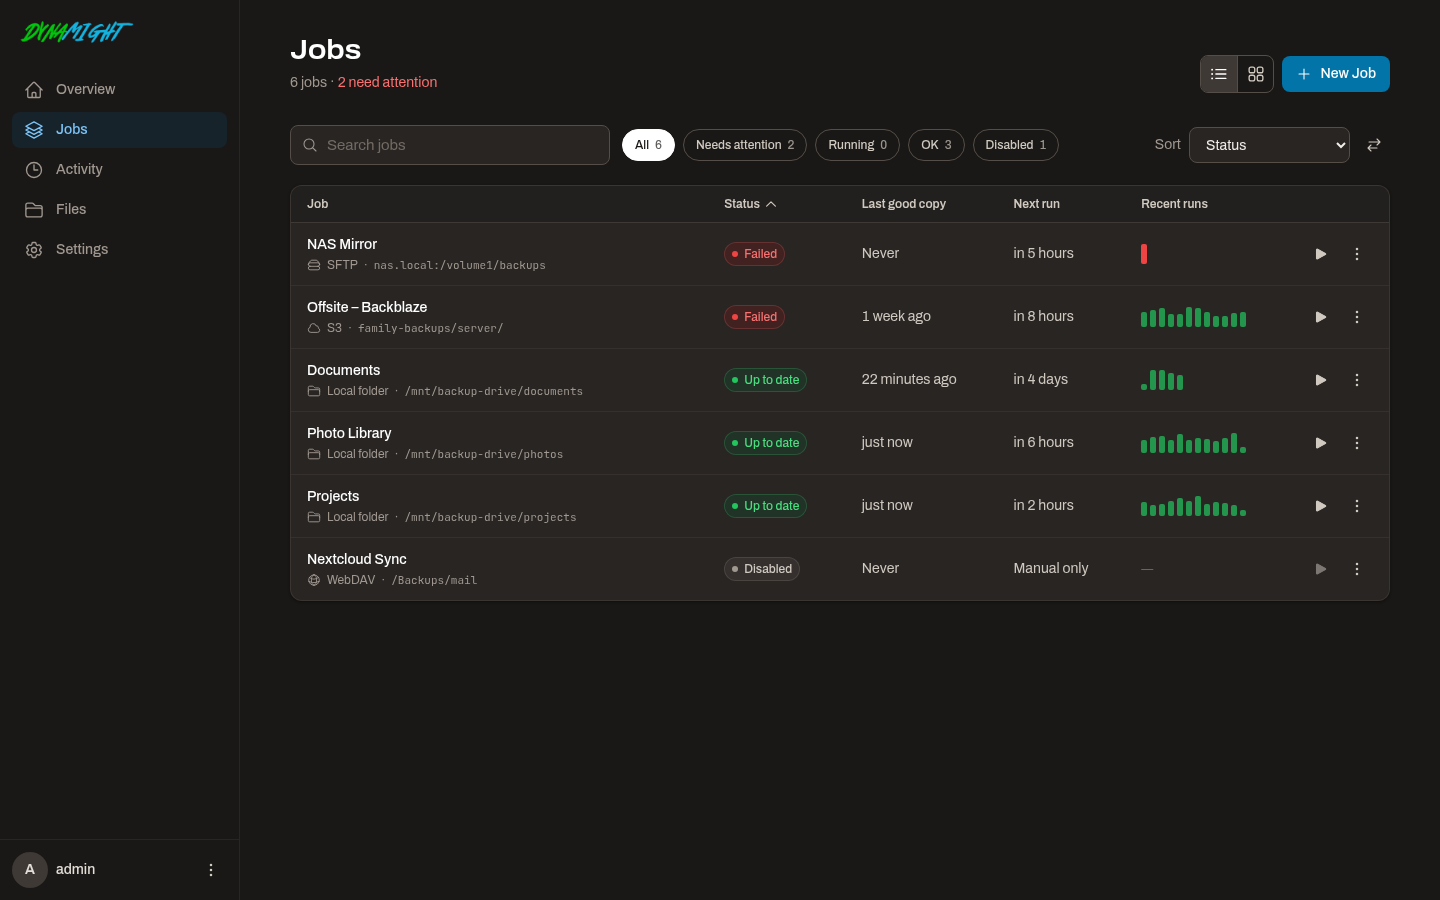
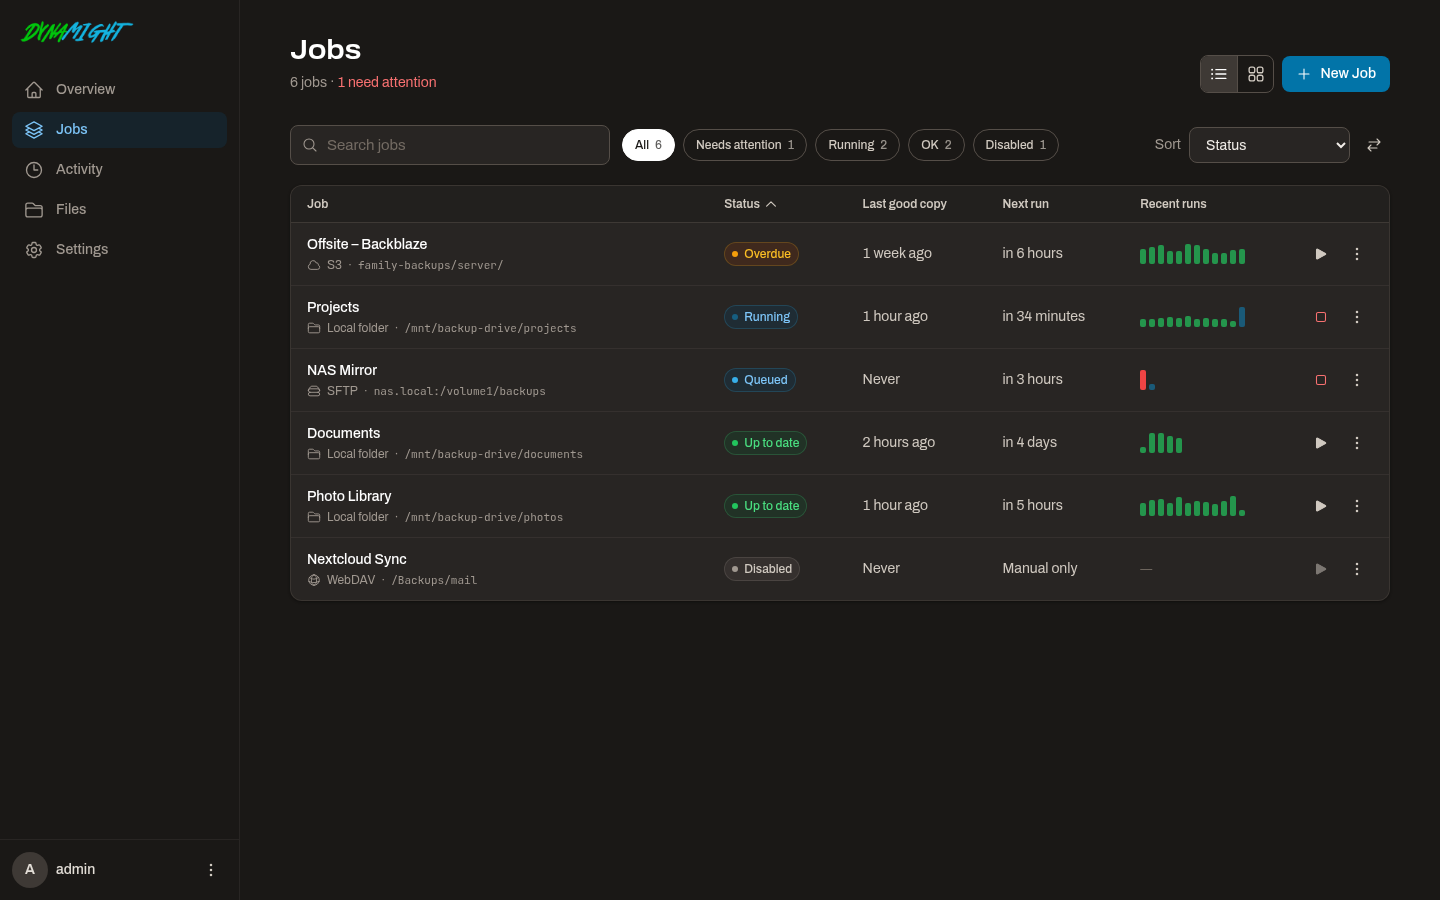
Docs: API reference and job list screenshot for 2.1
The API reference shows the real responses of run and cancel, all
settings fields including log_retention_days, the run object's
log_pruned field, and the events of both WebSockets. The job list
screenshot shows a running and a queued job.

diff --git a/docs/API.md b/docs/API.md
@@ -529,7 +529,7 @@ DELETE /jobs/:id
 
 ### Run Job
 
-Execute a job immediately.
+Start a run now. Backups run one at a time: when another backup is running, the run waits in a queue (status `pending`) and starts when that one finishes.
 
 ```
 POST /jobs/:id/run
@@ -540,10 +540,12 @@ POST /jobs/:id/run
 **Response:**
 ```json
 {
-  "run_id": 10,
-  "message": "Job started"
+  "runId": 10,
+  "queued": false
 }
 ```
+
+`queued` is `true` when the run waits for another backup. A job that already has a run running or queued answers `409` with `{"code": "JOB_ALREADY_RUNNING"}`.
 
 ---
 
@@ -557,12 +559,18 @@ POST /jobs/:id/cancel
 
 **Authentication:** Required
 
+Stops the job's running run and a queued follow-up run, if any.
+
 **Response:**
 ```json
 {
-  "message": "Job cancelled"
+  "success": true,
+  "processKilled": true,
+  "cancelled": 1
 }
 ```
+
+`cancelled` is the number of runs stopped. Without an active run the answer is `404` with `{"code": "NO_RUNNING_JOB"}`.
 
 ---
 
@@ -740,14 +748,15 @@ GET /jobs/:id/runs
     "bytes_transferred": 52428800,
     "total_size": 1073741824,
     "error_count": 0,
-    "summary": null
+    "summary": null,
+    "log_pruned": false
   }
 ]
 ```
 
-**Status Values:** `pending`, `running`, `completed`, `failed`, `cancelled`
+**Status Values:** `pending` (queued), `running`, `completed`, `failed`, `cancelled`
 
-`schedule_id` is `null` for manual runs.
+`schedule_id` is `null` for manual runs. `summary` holds a failed run's last error line. `log_pruned` is `true` once the log retention removed the run's log lines (the run record stays).
 
 ---
 
@@ -1519,16 +1528,27 @@ GET /settings
 **Response:**
 ```json
 {
-  "max_runs_per_job": 10,
-  "theme": "dark"
+  "max_runs_per_job": 5,
+  "log_retention_days": 90,
+  "delete_verification_window_minutes": 5,
+  "search_timeout_seconds": 10,
+  "show_directory_sizes": false
 }
 ```
+
+| Field | Description |
+|-------|-------------|
+| `max_runs_per_job` | Runs kept per job (older ones are deleted); `null` keeps every run |
+| `log_retention_days` | Days a run's log lines are kept; `null` keeps them forever. Each job's newest run and newest failed run always keep their log |
+| `delete_verification_window_minutes` | How long a password check allows deleting files in the file browser (1-60) |
+| `search_timeout_seconds` | Time limit of the file browser's subfolder search (3-60) |
+| `show_directory_sizes` | Whether the file browser computes folder sizes |
 
 ---
 
 ### Update Settings
 
-Update application settings.
+Update application settings. Only the fields sent are changed. For `max_runs_per_job` and `log_retention_days`, `null` means "no limit".
 
 ```
 PUT /settings
@@ -1539,15 +1559,14 @@ PUT /settings
 **Request Body:**
 ```json
 {
-  "max_runs_per_job": 20
+  "log_retention_days": 30
 }
 ```
 
 **Response:**
 ```json
 {
-  "max_runs_per_job": 20,
-  "theme": "dark"
+  "success": true
 }
 ```
 
@@ -1557,7 +1576,7 @@ PUT /settings
 
 ### Live Job Logs
 
-Stream real-time logs for a running job.
+Stream the log lines of a run while it runs.
 
 ```
 WebSocket /ws/logs/:run_id
@@ -1565,32 +1584,24 @@ WebSocket /ws/logs/:run_id
 
 **Authentication:** Session cookie (`token`), sent by the browser with the handshake
 
-**Server Messages:**
+**Server Messages:** one per log line
 ```json
 {
-  "type": "log",
   "run_id": 10,
-  "timestamp": "2026-01-05T02:00:01Z",
   "level": "info",
-  "message": "Starting sync..."
+  "message": "Syncing /data/photos -> /mnt/backup/backups/photos",
+  "source": "rsync",
+  "timestamp": "2026-01-05T02:00:01Z"
 }
 ```
 
-```json
-{
-  "type": "status",
-  "run_id": 10,
-  "status": "completed",
-  "files_transferred": 150,
-  "bytes_transferred": 52428800
-}
-```
+The line `Run finished: <status>` (source `system`) is sent once the run's final status and its whole log are stored.
 
 ---
 
 ### Global Status Updates
 
-Stream status updates for all jobs.
+Events when runs are queued, start and finish.
 
 ```
 WebSocket /ws/status
@@ -1602,31 +1613,18 @@ WebSocket /ws/status
 ```json
 {
   "type": "job_started",
-  "job_id": 1,
   "run_id": 10,
-  "job_name": "Daily Backup"
+  "job_id": 1,
+  "timestamp": "2026-01-05T02:00:00Z"
 }
 ```
 
-```json
-{
-  "type": "job_completed",
-  "job_id": 1,
-  "run_id": 10,
-  "job_name": "Daily Backup",
-  "status": "completed"
-}
-```
-
-```json
-{
-  "type": "job_progress",
-  "job_id": 1,
-  "run_id": 10,
-  "files_transferred": 50,
-  "bytes_transferred": 10485760
-}
-```
+| `type` | Sent when |
+|--------|-----------|
+| `job_queued` | A run waits for another backup to finish |
+| `job_started` | A run starts |
+| `job_completed` | A run ended; its final status and log are stored |
+| `resync` | The connection missed events; reload the job list (no other fields) |
 
 ---
 
